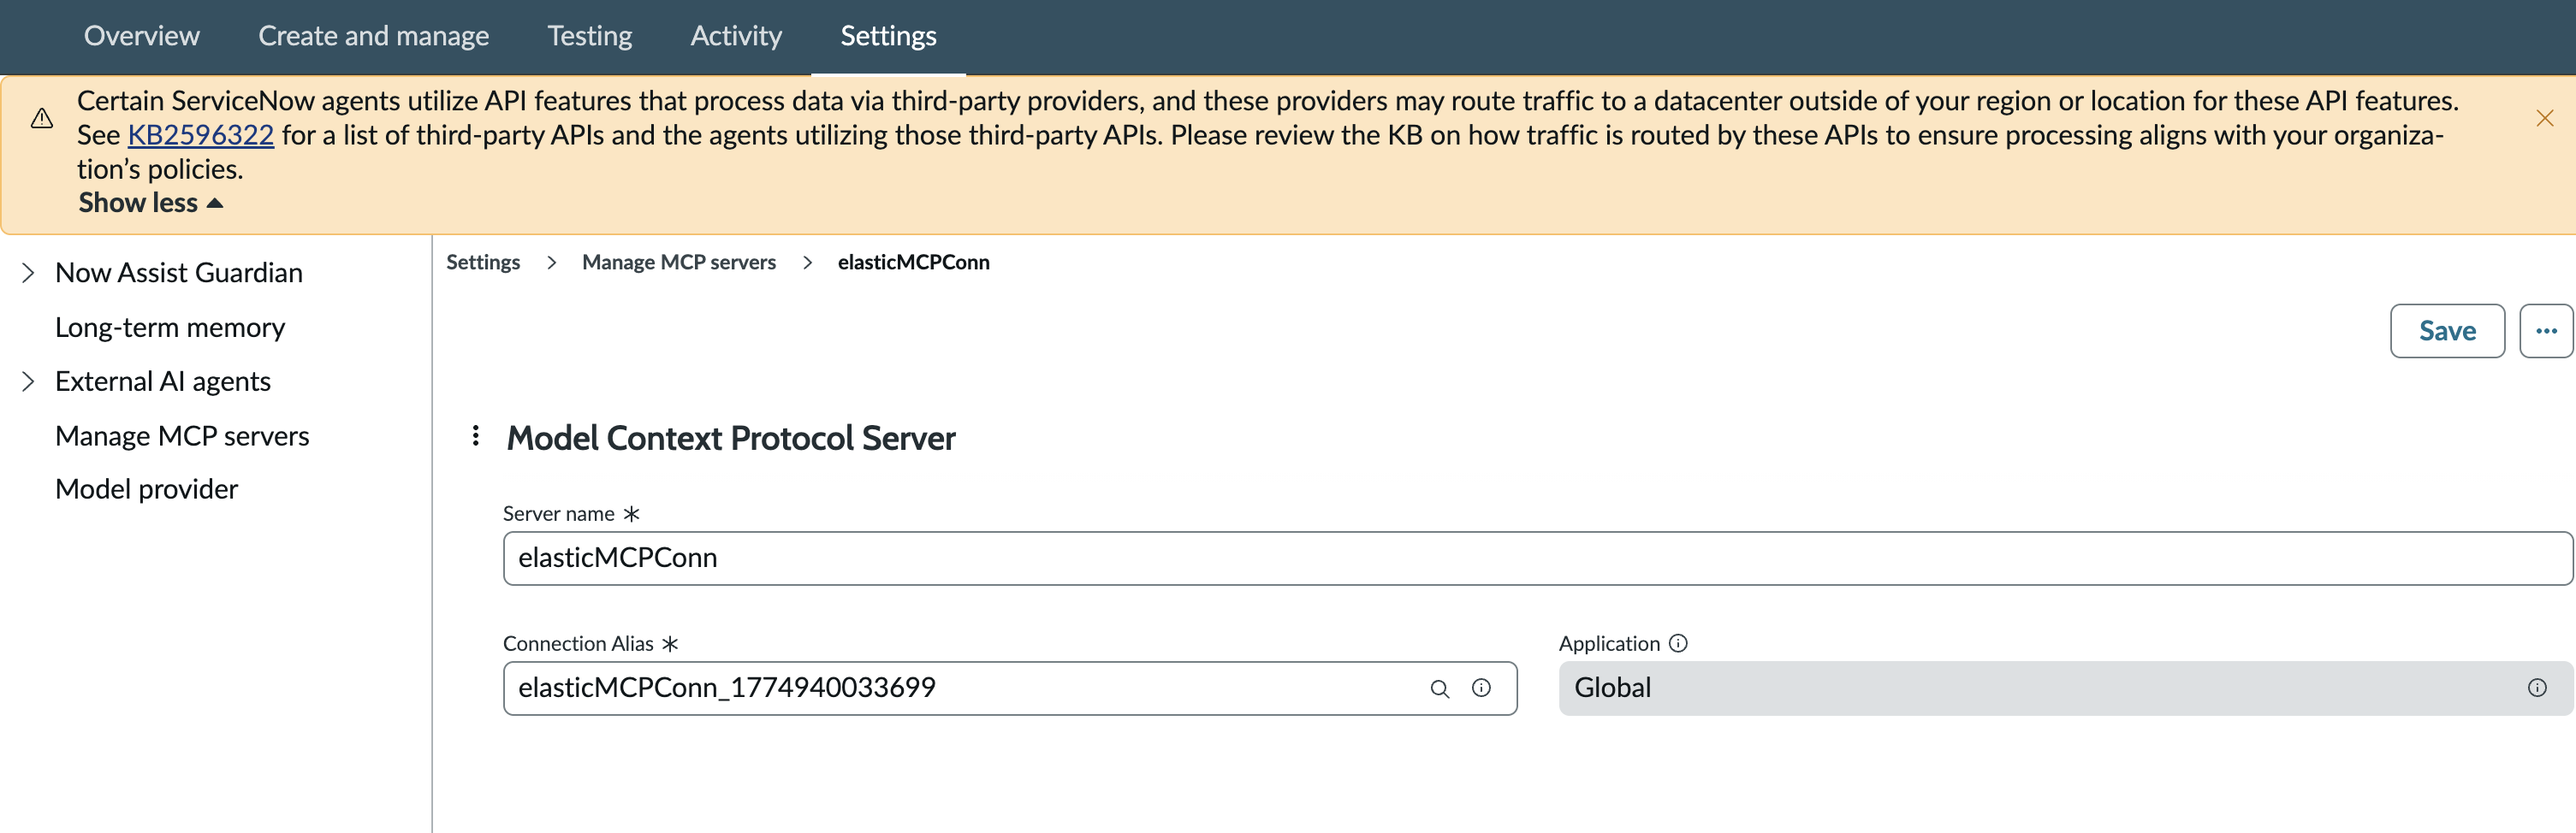
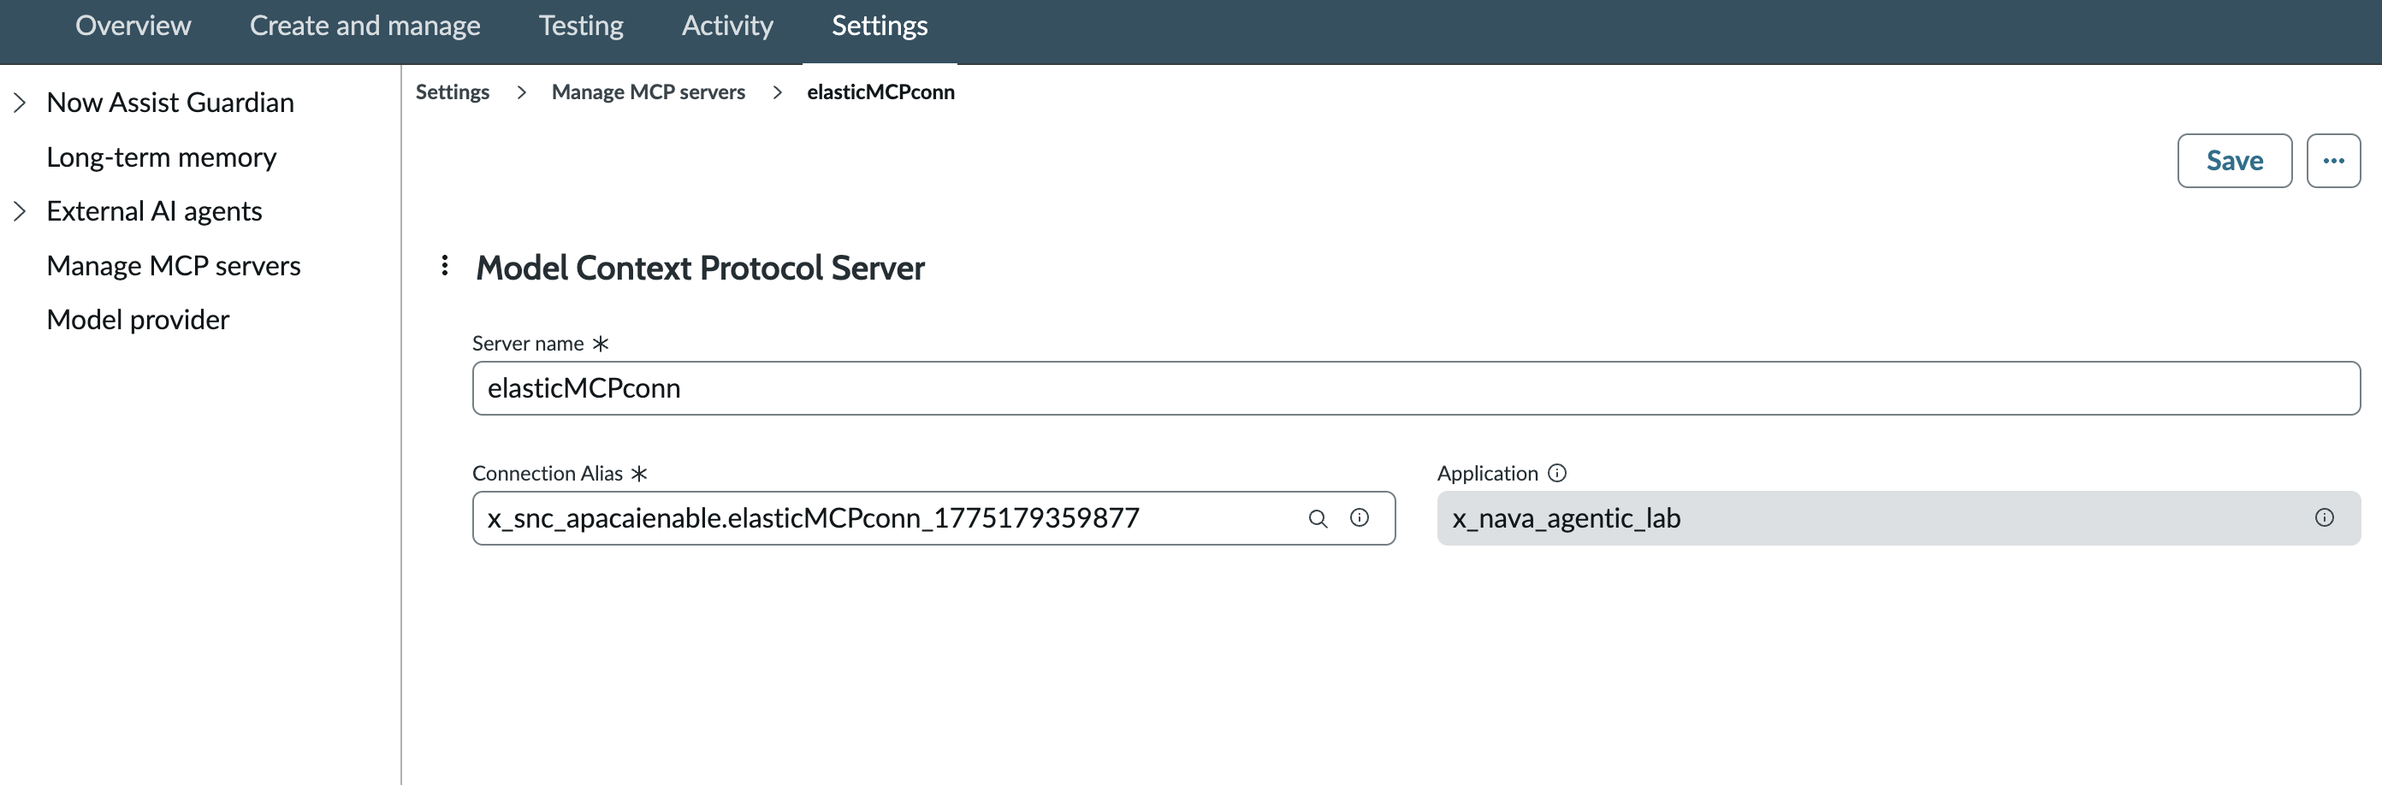
05mcp-changes-commit

diff --git a/docs/05-mcp-elastic-integration.md b/docs/05-mcp-elastic-integration.md
@@ -100,9 +100,9 @@ Verify the record:
 
 | Field            | Value                                                                               |
 | ---------------- | ----------------------------------------------------------------------------------- |
-| Server name      | `elasticMCPConn` (or whatever you have decided to name it as)                       |
-| Connection Alias | `elasticMCPConn_1774940033699` _(auto-generated, can be different across instances)_ |
-| Application      | `Global`                                                                            |
+| Server name      | `elasticMCPconn` (or whatever you have decided to name it as)                       |
+| Connection Alias | `x_snc_apacaienable.elasticMCPconn_1775179359877` _(auto-generated, can be different across instances)_ |
+| Application      | `x_nava_agentic_lab`                                                                            |
 
 ***
 
@@ -126,12 +126,12 @@ To add an Elastic MCP tool to an AI Agent (to be added in section 06 - Resolutio
 
 | Field               | Value                                                                               |
 | ------------------- | ----------------------------------------------------------------------------------- |
-| MCP server name     | `elasticMCPConn`                                                                    |
+| MCP server name     | `elasticMCPconn`                                                                    |
 | Authentication type | API Key                                                                             |
 | MCP server URL      | `https://my-deployment-9ddd25.kb.us-central1.gcp.cloud.es.io/api/agent_builder/mcp` |
 | API key             | _(your Elastic API key)_                                                            |
-| Connection Alias    | `elasticMCPConn_1774940033699` (auto-generated)                                     |
-| Application scope   | Global                                                                              |
+| Connection Alias    | `x_snc_apacaienable.elasticMCPconn_1775179359877` (auto-generated)                  |
+| Application scope   | x_nava_agentic_lab                                                                  |
 | Protocol version    | `2024-11-05`                                                                        |
 | Transport           | Streamable HTTP                                                                     |
 | Navigation          | All → AI Agent Studio → Settings → Manage MCP servers                               |
